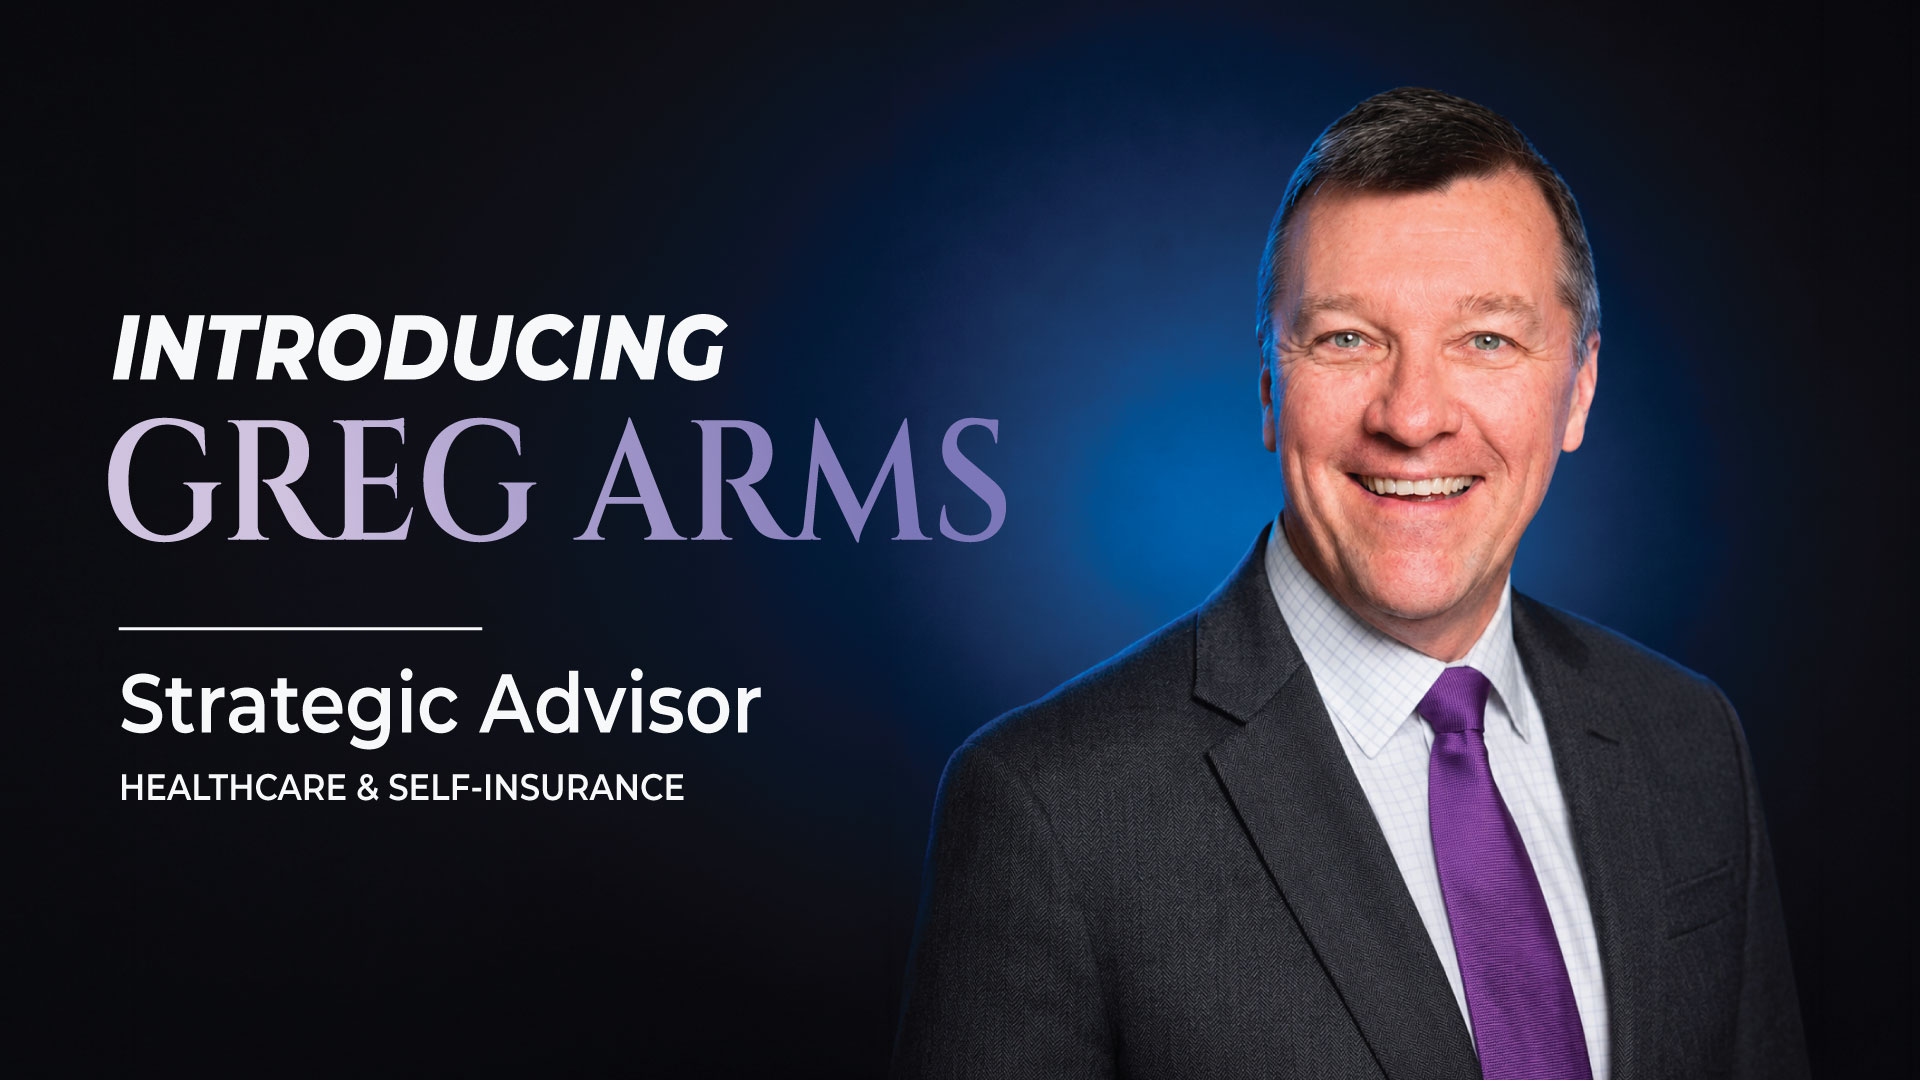
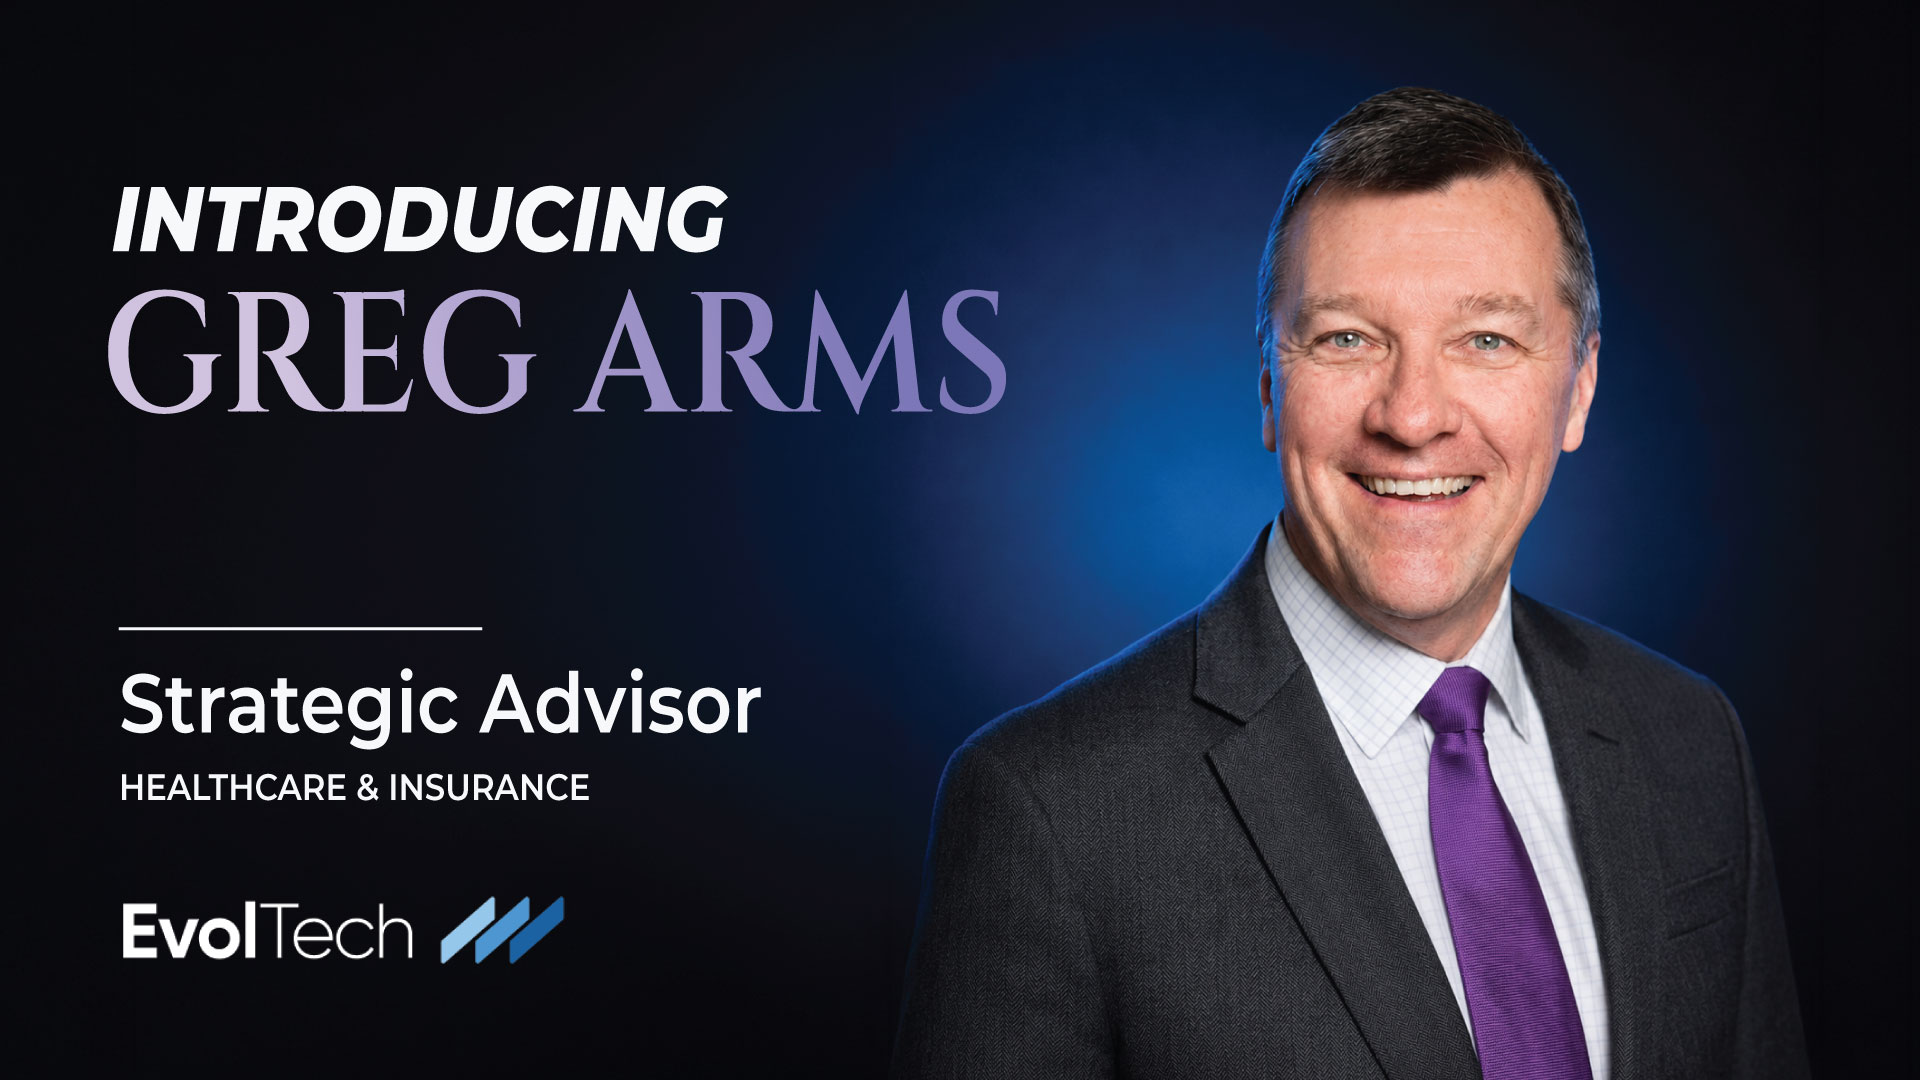
fix: minor changes

diff --git a/src/app/about/components/LeaderProfile.tsx b/src/app/about/components/LeaderProfile.tsx
@@ -45,8 +45,7 @@ const LeaderProfile = ({
     <div className="h-full flex flex-col w-full md:pb-5 gap-5 md:items-end items-center justify-start md:justify-between md:w-fit">
       <div
         className="rounded-[10px] relative overflow-hidden"
-        style={{ width: imageWidth, height: imageHeight }}
-      >
+        style={{ width: imageWidth, height: imageHeight }}>
         <div className="w-full h-full relative flex justify-end items-end">
           <div
             className="w-full absolute bottom-0 rounded-xl z-1"
@@ -71,13 +70,12 @@ const LeaderProfile = ({
           {title}
         </Text>
       </div>
-      <div className="flex gap-3 w-full items-center justify-start">
-        <div className="w-5 h-5">{linkedInIcon}</div>
+      <div className="flex w-full items-center justify-start">
         <Link
           href={linkedinUrl}
           target="_blank"
-          className="xl:text-base sm:text-sm cursor-pointer text-[#007EBB] font-semibold"
-        >
+          className="xl:text-base flex gap-3 w-full items-center justify-start sm:text-sm cursor-pointer text-[#007EBB] font-semibold">
+          <div className="w-5 h-5">{linkedInIcon}</div>
           View LinkedIn Profile
         </Link>
       </div>
@@ -88,14 +86,12 @@ const LeaderProfile = ({
     <div className="flex flex-col items-start gap-3 md:gap-0 justify-center">
       <Button
         className="p-1.5 flex w-fit text-black rounded-full text-xm px-4 font-medium"
-        style={{ backgroundColor: badgeBg }}
-      >
+        style={{ backgroundColor: badgeBg }}>
         {role}
       </Button>
       <Text
         className="font-semibold text-3xl md:text-[48px] text-black max-w-[50rem]"
-        tag="p"
-      >
+        tag="p">
         {heading}
       </Text>
       <div className="flex flex-col text-black gap-5 max-w-xl mt-3 md:mt-0">

diff --git a/src/app/about/Contents/Founder.tsx b/src/app/about/Contents/Founder.tsx
@@ -44,12 +44,12 @@ const Founder = () => {
                 Chief Executive Officer
               </Text>
             </div>
-            <div className="flex gap-3 w-full items-center justify-start">
-              <div className="w-5 h-5">{linkedInIcon}</div>
+            <div className="flex w-full items-center justify-start">
               <Link
                 href="https://www.linkedin.com/in/thulasidharan-lg-603aa711"
                 target="_blank"
-                className="xl:text-base sm:text-sm cursor-pointer text-[#007EBB] font-semibold">
+                className="xl:text-base flex gap-3 w-full items-center justify-start sm:text-sm cursor-pointer text-[#007EBB] font-semibold">
+                <div className="w-5 h-5">{linkedInIcon}</div>
                 View LinkedIn Profile
               </Link>
             </div>

diff --git a/src/app/news/page.tsx b/src/app/news/page.tsx
@@ -262,7 +262,7 @@ export default function NewsPage() {
                         Strategic Advisor &mdash;
                       </p>
                       <p className="text-[#38bdf8] text-sm font-bold uppercase tracking-[0.18em] leading-snug mt-1">
-                        Healthcare &amp; Self-Insurance
+                        Healthcare &amp; Insurance
                       </p>
                     </div>
 

diff --git a/src/app/about/Contents/Advisors.tsx b/src/app/about/Contents/Advisors.tsx
@@ -23,8 +23,7 @@ const Advisors = () => {
   return (
     <section
       className="w-full h-1/2 bg-[#EFF7FF] relative"
-      id="advisors-section"
-    >
+      id="advisors-section">
       <div className="absolute w-full h-full overflow-hidden z-1">
         <div className="absolute -left-10 bottom-0 md:top-0 scale-x-[-1]">
           {topRightRing}
